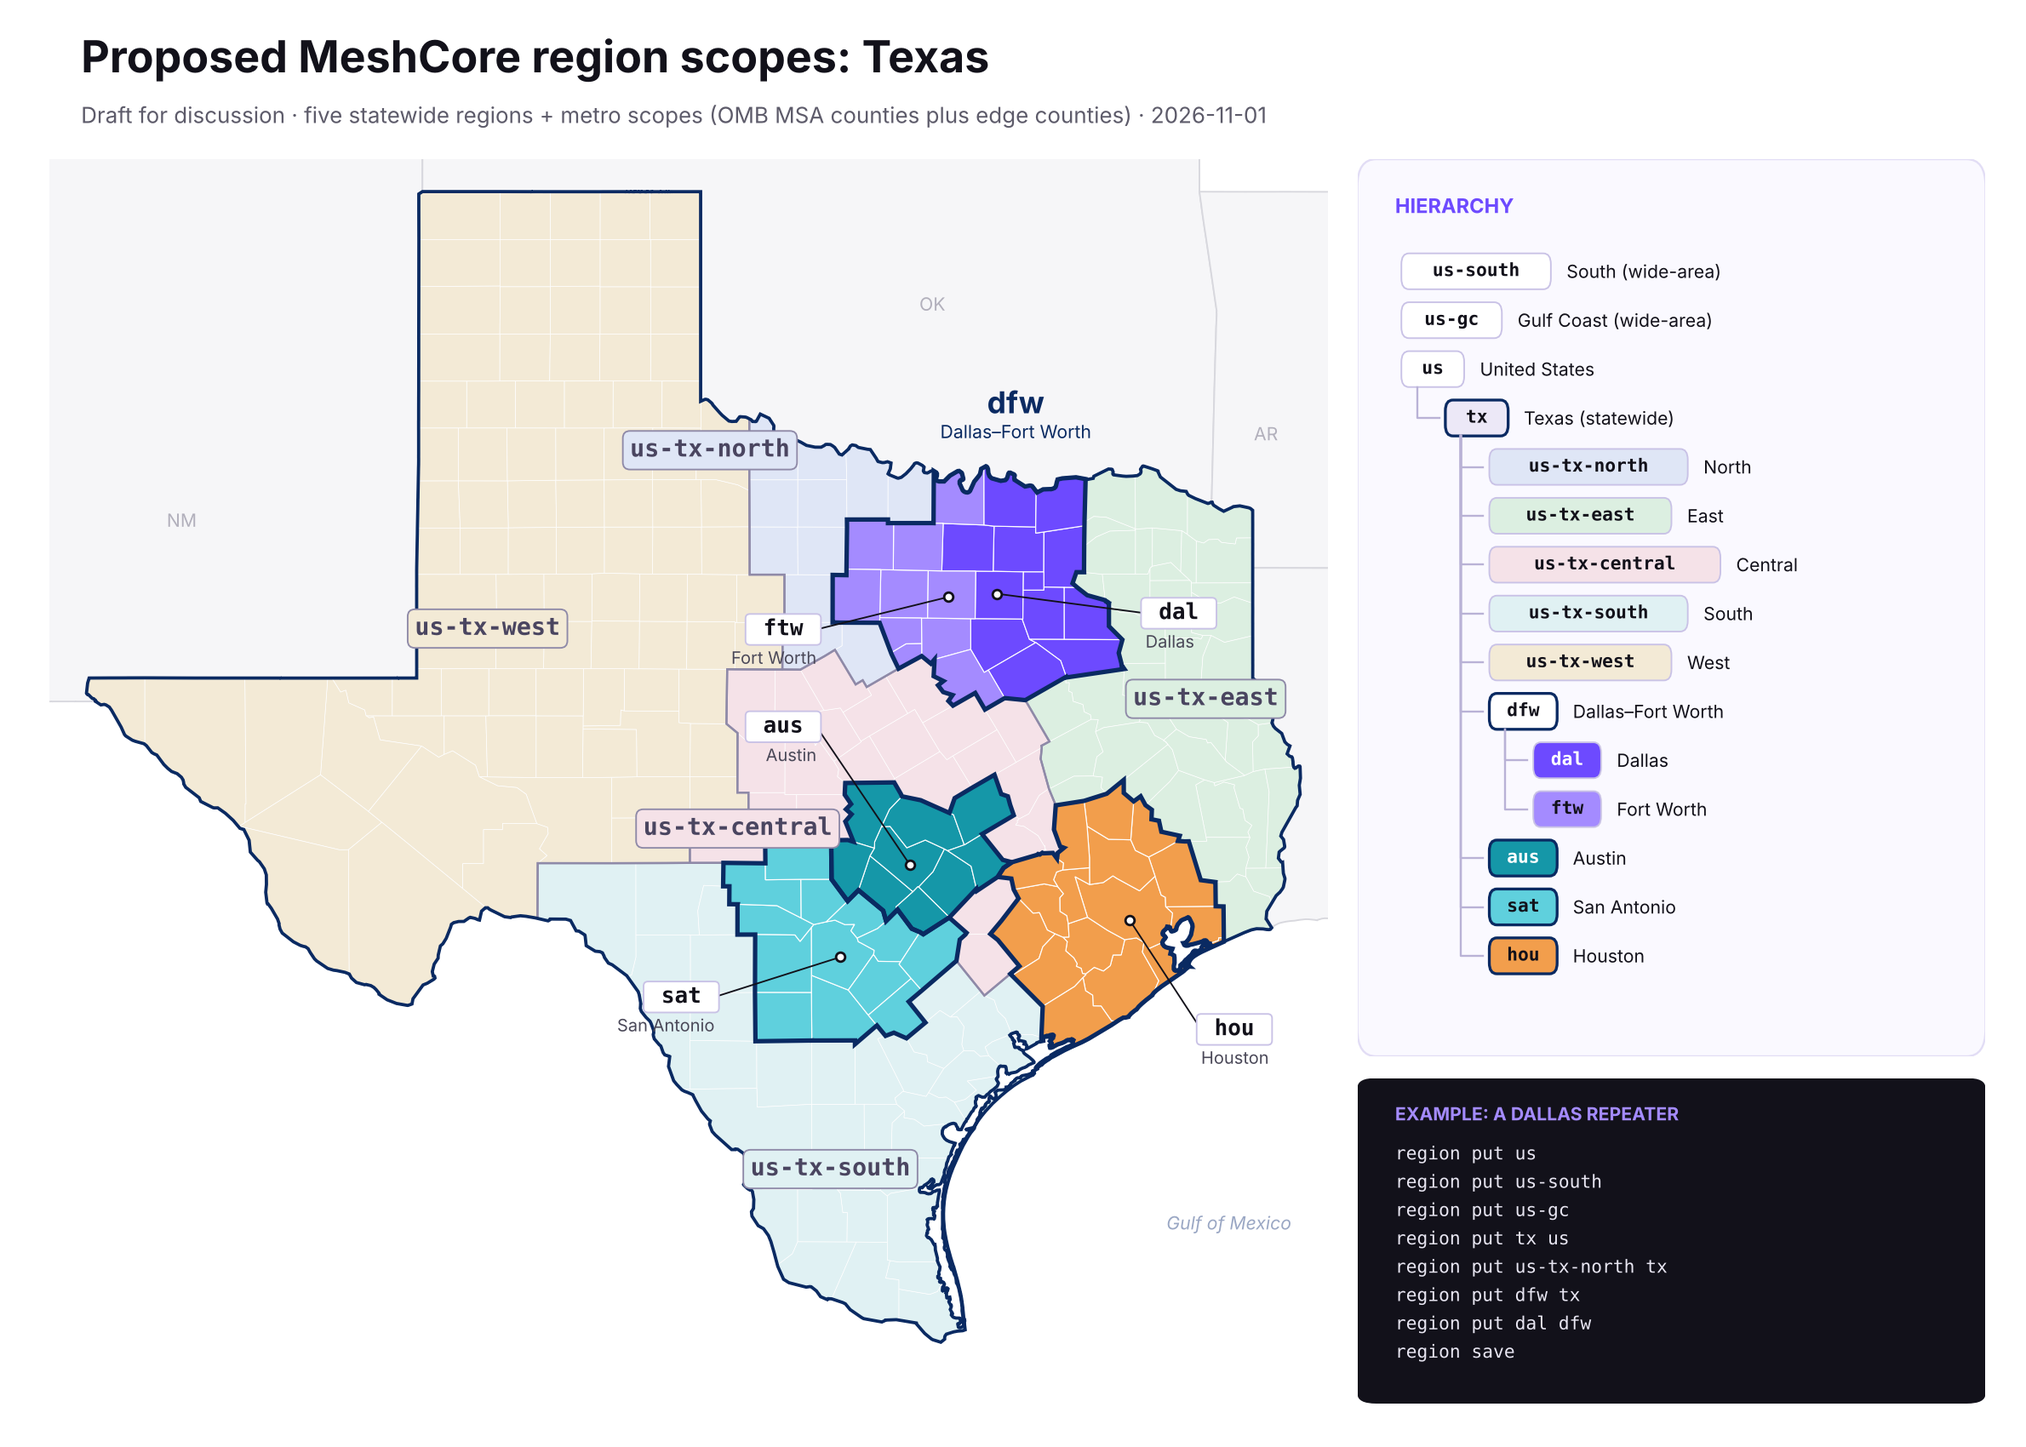
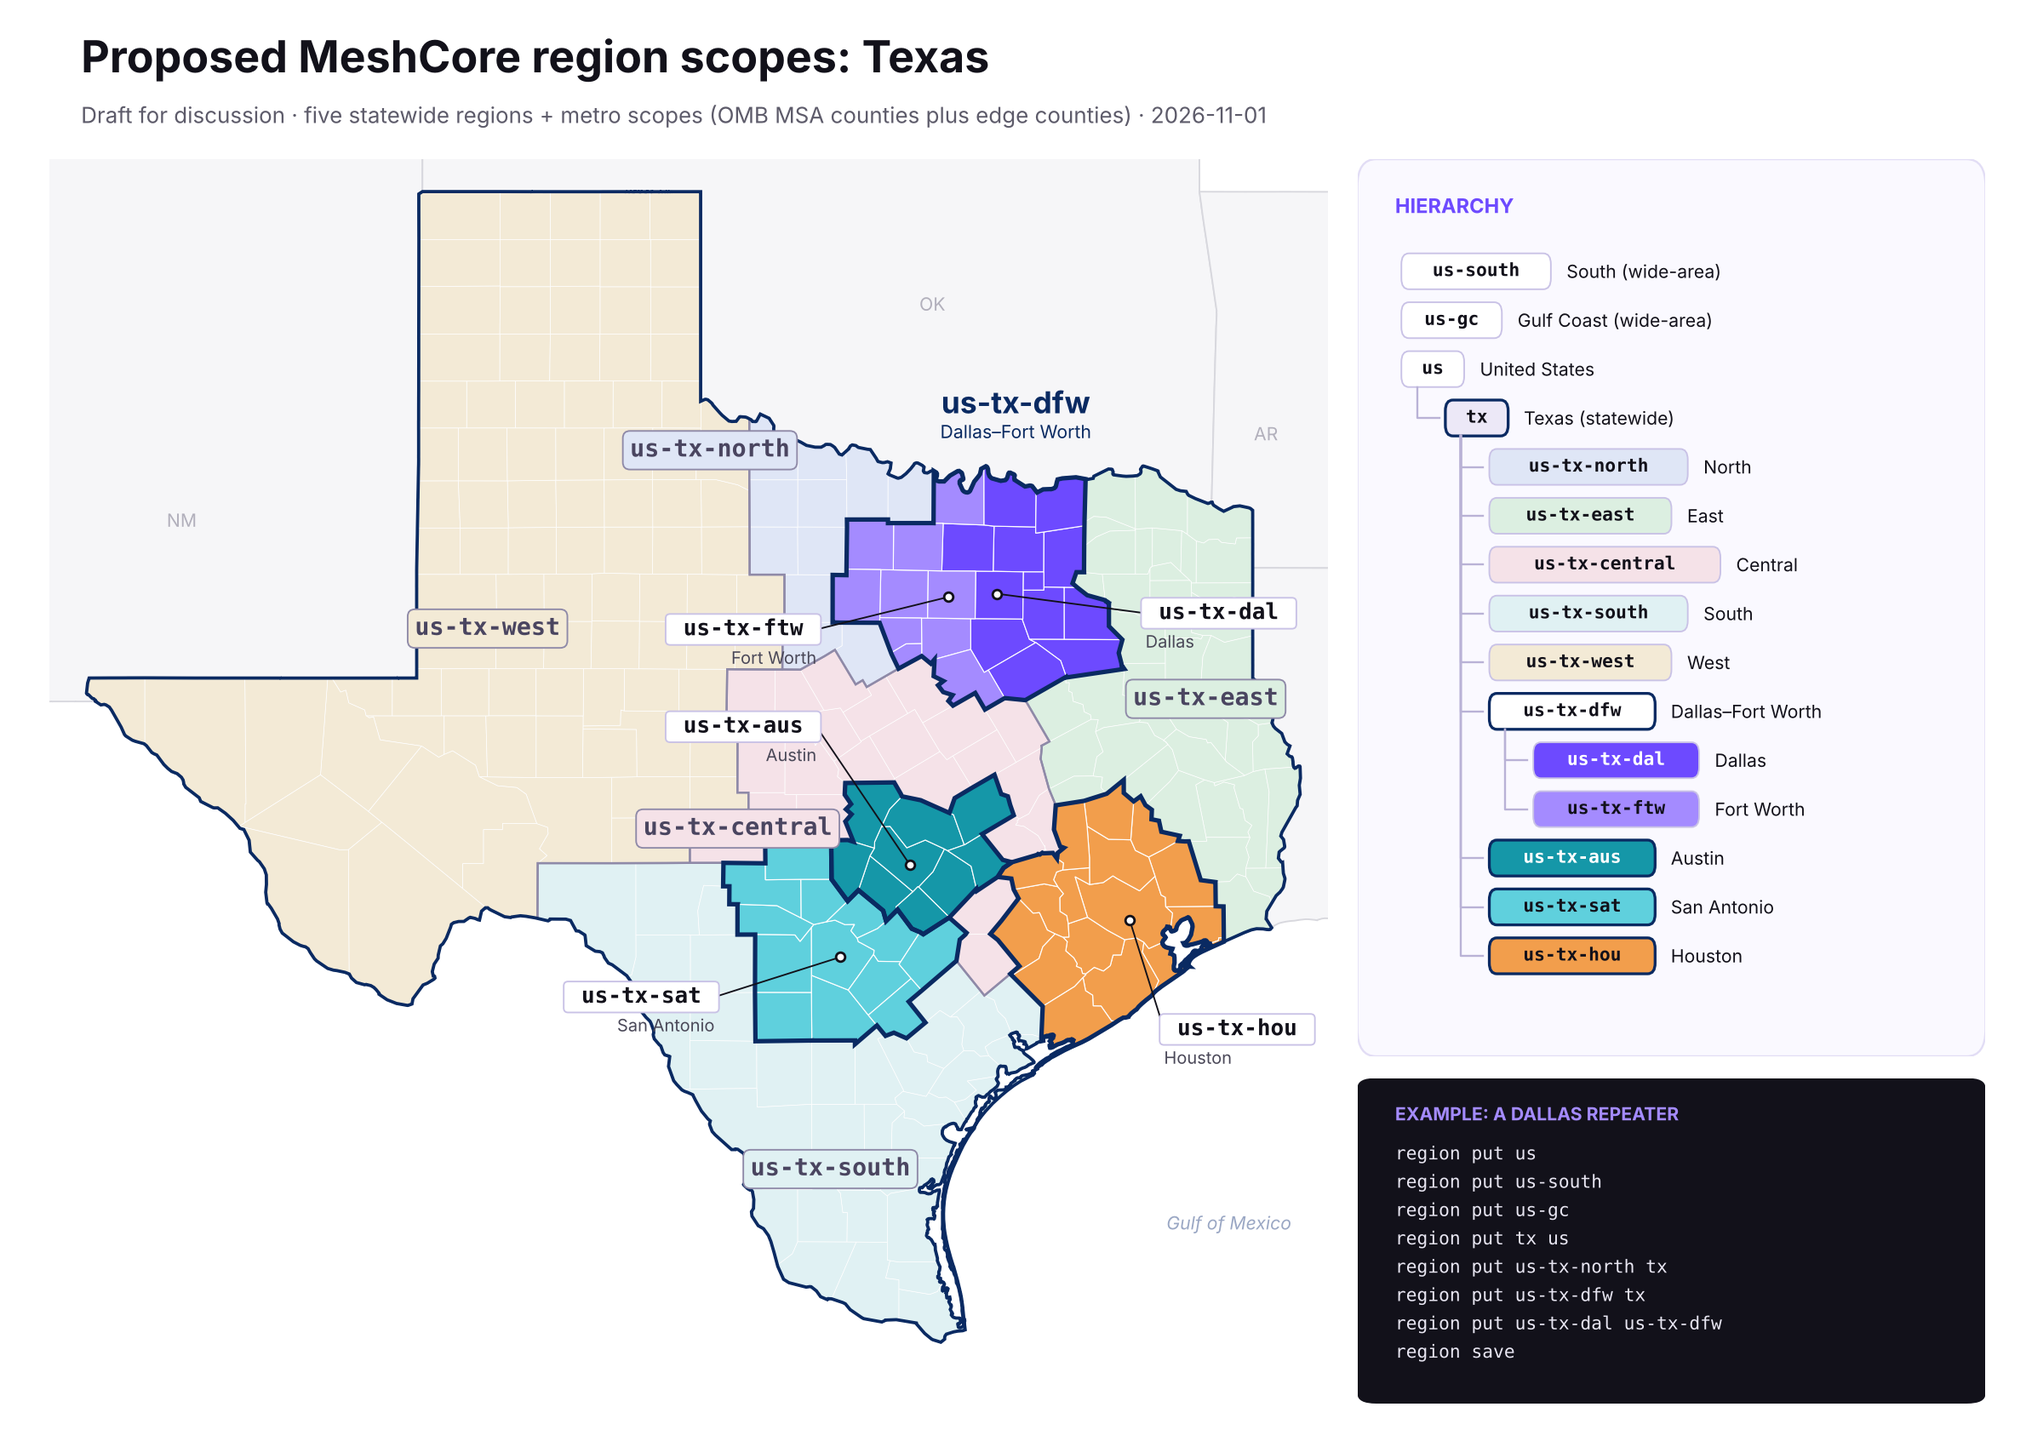
Rename metro and city scopes to us-tx-<code>
dfw, dal, ftw, aus, sat and hou become us-tx-dfw, us-tx-dal, us-tx-ftw,
us-tx-aus, us-tx-sat and us-tx-hou to match the us-tx-<region> names.

diff --git a/tools/render_map.py b/tools/render_map.py
@@ -61,12 +61,12 @@ def lab(lon, lat, tlon, tlat, txt, sub, ha):
     ax.text(tlon*K, tlat, f" {txt} ", ha=ha, va="center", fontsize=11, fontweight="bold", color=INK, zorder=6, family="monospace",
             bbox=dict(boxstyle="round,pad=0.2", fc="white", ec="#c9c2e6", lw=0.8))
     ax.text(tlon*K, tlat-0.26, sub, ha=ha, va="center", fontsize=8.5, color="#4a4858", zorder=6)
-lab(-96.80, 32.78, -95.2, 32.6, "dal", "Dallas", "left")
-lab(-97.33, 32.75, -98.75, 32.45, "ftw", "Fort Worth", "right")
-lab(-97.74, 30.27, -98.75, 31.55, "aus", "Austin", "right")
-lab(-98.49, 29.42, -99.85, 29.05, "sat", "San Antonio", "right")
-lab(-95.37, 29.76, -94.6, 28.75, "hou", "Houston", "left")
-ax.text(-96.6*K, 34.45, "dfw", ha="center", fontsize=15, fontweight="bold", color=NAVY, zorder=6)
+lab(-96.80, 32.78, -95.2, 32.6, "us-tx-dal", "Dallas", "left")
+lab(-97.33, 32.75, -98.75, 32.45, "us-tx-ftw", "Fort Worth", "right")
+lab(-97.74, 30.27, -98.75, 31.55, "us-tx-aus", "Austin", "right")
+lab(-98.49, 29.42, -99.85, 29.05, "us-tx-sat", "San Antonio", "right")
+lab(-95.37, 29.76, -95.0, 28.75, "us-tx-hou", "Houston", "left")
+ax.text(-96.6*K, 34.45, "us-tx-dfw", ha="center", fontsize=15, fontweight="bold", color=NAVY, zorder=6)
 ax.text(-96.6*K, 34.22, "Dallas–Fort Worth", ha="center", fontsize=9, color=NAVY, zorder=6)
 for r, lon, lat in [("west",-102.3,32.4),("north",-99.9,34.05),("east",-94.55,31.75),("central",-99.6,30.55),("south",-98.6,27.4)]:
     ax.text(lon*K, lat, f"us-tx-{r}", ha="center", fontsize=12, fontweight="bold", color="#4a4560", family="monospace", zorder=4,
@@ -86,8 +86,8 @@ px.add_patch(FancyBboxPatch((0.0,0.0),1,1, boxstyle="round,pad=0,rounding_size=0
 px.text(0.06, 0.94, "HIERARCHY", fontsize=10, color="#6d4aff", fontweight="bold")
 rows = [(0,"us-south","South (wide-area)","#ffffff"),(0,"us-gc","Gulf Coast (wide-area)","#ffffff"),(0,"us","United States","#ffffff"),(1,"tx","Texas (statewide)",C["tx"]),
         (2,"us-tx-north","North",C["north"]),(2,"us-tx-east","East",C["east"]),(2,"us-tx-central","Central",C["central"]),(2,"us-tx-south","South",C["south"]),(2,"us-tx-west","West",C["west"]),
-        (2,"dfw","Dallas–Fort Worth","#ffffff"),(3,"dal","Dallas",C["dal"]),(3,"ftw","Fort Worth",C["ftw"]),
-        (2,"aus","Austin",C["aus"]),(2,"sat","San Antonio",C["sat"]),(2,"hou","Houston",C["hou"])]
+        (2,"us-tx-dfw","Dallas–Fort Worth","#ffffff"),(3,"us-tx-dal","Dallas",C["dal"]),(3,"us-tx-ftw","Fort Worth",C["ftw"]),
+        (2,"us-tx-aus","Austin",C["aus"]),(2,"us-tx-sat","San Antonio",C["sat"]),(2,"us-tx-hou","Houston",C["hou"])]
 y = 0.875; prev = {}
 for lvl, code, name, col in rows:
     x = 0.07 + lvl*0.07
@@ -95,9 +95,9 @@ for lvl, code, name, col in rows:
         px.plot([x-0.045, x-0.045, x-0.01], [prev[lvl-1]-0.02, y, y], color="#b9b2d6", lw=1)
     w = max(0.10, 0.026*len(code)+0.03)
     px.add_patch(FancyBboxPatch((x, y-0.02), w, 0.04, boxstyle="round,pad=0,rounding_size=0.012",
-                 fc=col, ec=NAVY if code in ("tx","dfw","aus","sat","hou") else "#c9c2e6", lw=1.4 if code in ("tx","dfw","aus","sat","hou") else 0.8))
+                 fc=col, ec=NAVY if code in ("tx","us-tx-dfw","us-tx-aus","us-tx-sat","us-tx-hou") else "#c9c2e6", lw=1.4 if code in ("tx","us-tx-dfw","us-tx-aus","us-tx-sat","us-tx-hou") else 0.8))
     px.text(x+w/2, y, code, ha="center", va="center", fontsize=9, fontweight="bold",
-            color="white" if code in ("dal","aus") else INK, family="monospace")
+            color="white" if code in ("us-tx-dal","us-tx-aus") else INK, family="monospace")
     px.text(x+w+0.025, y, name, va="center", fontsize=9, color=INK)
     prev[lvl] = y; y -= 0.0545
 
@@ -105,7 +105,7 @@ for lvl, code, name, col in rows:
 cx = fig.add_axes([0.67, 0.03, 0.31, 0.225]); cx.axis("off"); cx.set_xlim(0,1); cx.set_ylim(0,1)
 cx.add_patch(FancyBboxPatch((0,0),1,1, boxstyle="round,pad=0,rounding_size=0.03", fc="#12111a", ec="none"))
 cx.text(0.06, 0.87, "EXAMPLE: A DALLAS REPEATER", fontsize=9, color="#a48bff", fontweight="bold")
-cfg = ["region put us","region put us-south","region put us-gc","region put tx us","region put us-tx-north tx","region put dfw tx","region put dal dfw","region save"]
+cfg = ["region put us","region put us-south","region put us-gc","region put tx us","region put us-tx-north tx","region put us-tx-dfw tx","region put us-tx-dal us-tx-dfw","region save"]
 for i, l in enumerate(cfg):
     cx.text(0.06, 0.75 - i*0.087, l, fontsize=9, color="#e8e6f2", family="monospace")
 fig.savefig(sys.argv[2], facecolor="white")

diff --git a/README.md b/README.md
@@ -19,33 +19,33 @@ _Draft for discussion · updated 2026-11-01 · adapted and simplified from the P
 | `us-tx-central` | Central | `tx` | I-35 corridor from Waco through Austin to San Antonio, Hill Country and Brazos Valley (47 counties) |
 | `us-tx-south` | South | `tx` | Coastal Bend, the border and the Rio Grande Valley (35 counties) |
 | `us-tx-west` | West | `tx` | Panhandle, South Plains, Permian Basin, Big Bend and Big Country, Amarillo to El Paso (90 counties) |
-| `dfw` | Dallas–Fort Worth | `tx` | DFW metro plus edge counties (22 counties) |
-| `dal` | Dallas | `dfw` | Collin, Dallas, Denton, Ellis, Hunt, Kaufman, Rockwall · edge: Fannin, Grayson, Henderson, Navarro, Van Zandt |
-| `ftw` | Fort Worth | `dfw` | Johnson, Parker, Tarrant, Wise · edge: Cooke, Hill, Hood, Jack, Palo Pinto, Somervell |
-| `aus` | Austin | `tx` | Bastrop, Caldwell, Hays, Travis, Williamson · edge: Blanco, Burnet, Lee, Milam |
-| `sat` | San Antonio | `tx` | Atascosa, Bandera, Bexar, Comal, Guadalupe, Kendall, Medina, Wilson · edge: Frio, Gillespie, Gonzales, Karnes, Kerr |
-| `hou` | Houston | `tx` | Austin, Brazoria, Chambers, Fort Bend, Galveston, Harris, Liberty, Montgomery, San Jacinto, Waller · edge: Colorado, Grimes, Matagorda, Walker, Washington, Wharton |
+| `us-tx-dfw` | Dallas–Fort Worth | `tx` | DFW metro plus edge counties (22 counties) |
+| `us-tx-dal` | Dallas | `us-tx-dfw` | Collin, Dallas, Denton, Ellis, Hunt, Kaufman, Rockwall · edge: Fannin, Grayson, Henderson, Navarro, Van Zandt |
+| `us-tx-ftw` | Fort Worth | `us-tx-dfw` | Johnson, Parker, Tarrant, Wise · edge: Cooke, Hill, Hood, Jack, Palo Pinto, Somervell |
+| `us-tx-aus` | Austin | `tx` | Bastrop, Caldwell, Hays, Travis, Williamson · edge: Blanco, Burnet, Lee, Milam |
+| `us-tx-sat` | San Antonio | `tx` | Atascosa, Bandera, Bexar, Comal, Guadalupe, Kendall, Medina, Wilson · edge: Frio, Gillespie, Gonzales, Karnes, Kerr |
+| `us-tx-hou` | Houston | `tx` | Austin, Brazoria, Chambers, Fort Bend, Galveston, Harris, Liberty, Montgomery, San Jacinto, Waller · edge: Colorado, Grimes, Matagorda, Walker, Washington, Wharton |
 
 Each metro starts from its OMB Metropolitan Statistical Area counties (Dallas and Fort Worth use the two MSA divisions) and adds the outlying counties along its edge, so repeaters on the fringe join the metro instead of falling back to `tx`. The edge counties are a first pass and easy to adjust. El Paso, the Valley and other areas without a metro scope use their region scope until a local community asks for a metro scope.
 
-The five regions come from the "Texas in Five" proposal. Every county belongs to exactly one region, and metro areas are never split between regions. Metro scopes are separate from regions, so a few metro edge counties fall in a neighboring region: Van Zandt and Henderson (`dal`) are in East, Navarro (`dal`) and Hill (`ftw`) are in Central, Frio and Karnes (`sat`) are in South, and Grimes, Washington and Colorado (`hou`) are in Central. A repeater in one of those counties carries its own region plus the metro scope.
+The five regions come from the "Texas in Five" proposal. Every county belongs to exactly one region, and metro areas are never split between regions. Metro scopes are separate from regions, so a few metro edge counties fall in a neighboring region: Van Zandt and Henderson (`us-tx-dal`) are in East, Navarro (`us-tx-dal`) and Hill (`us-tx-ftw`) are in Central, Frio and Karnes (`us-tx-sat`) are in South, and Grimes, Washington and Colorado (`us-tx-hou`) are in Central. A repeater in one of those counties carries its own region plus the metro scope.
 
 ## What can sit under `tx`
 
 Every scope under `tx` has to be one of these four kinds:
 
 1. **One of the five statewide regions.** These are `us-tx-north`, `us-tx-east`, `us-tx-central`, `us-tx-south` and `us-tx-west`, and together they cover every county.
-2. **A major metro area.** This is a metro scope named for the whole area, such as `dfw` for Dallas–Fort Worth.
-3. **A grouping of IATA codes.** This joins neighboring airport-code areas under one scope, such as a future Rio Grande Valley scope grouping `hrl`, `mfe` and `bro`.
-4. **A single IATA code.** This is one city or area named by its airport code, such as `hou`, `dal`, `ftw`, `aus` or `sat`.
+2. **A major metro area.** This is a metro scope named for the whole area, such as `us-tx-dfw` for Dallas–Fort Worth.
+3. **A grouping of IATA codes.** This joins neighboring airport-code areas under one scope, such as a future `us-tx-rgv` grouping the `hrl`, `mfe` and `bro` areas.
+4. **A single IATA code.** This is one city or area named by its airport code, such as `us-tx-hou`, `us-tx-dal`, `us-tx-ftw`, `us-tx-aus` or `us-tx-sat`.
 
-Areas that don't fit one of these stay in `tx` until they do. Future scopes follow the same rule, for example `elp` (El Paso), `crp` (Corpus Christi) or a grouping for the Rio Grande Valley built from `hrl`, `mfe` and `bro`.
+Areas that don't fit one of these stay in `tx` until they do. Future scopes follow the same rule, for example `us-tx-elp` (El Paso), `us-tx-crp` (Corpus Christi) or `us-tx-rgv` for the Rio Grande Valley.
 
 ## What we kept from the PNW document
 
-- **Short, flat, lowercase names.** Use only a–z, 0–9 and `-`, with three letters or fewer where possible. Under `tx`, names follow the rule above; the five regions use the longer `us-tx-<region>` form from the Texas in Five proposal. Above `tx`, names match the ones neighboring meshes already use (`us-south`, `us-gc`). A name is just `dal`, not `us-tx-dfw-dal`; the hierarchy comes from the parent field. Names have to be unique across the mesh.
-- **Every repeater carries its full ancestry.** Firmware matches traffic on each region's own key and never looks at the parent. A repeater with only `dal` won't forward `dfw` or `tx` traffic, so each level needs its own `region put`.
-- **Scope to your audience.** Use the smallest scope that reaches the people you're talking to. Local chat goes on `dal`/`ftw`/`aus`/`sat`/`hou`, metro-wide traffic on `dfw`, regional traffic on a `us-tx-<region>` scope, and statewide traffic on `tx`. Bots should flood on a scope, never unscoped.
+- **Short, flat, lowercase names.** Use only a–z, 0–9 and `-`, and keep them short. Every scope under `tx` is named `us-tx-<code>`, where the code is a region name (`north`), a metro or grouping code (`dfw`) or an IATA code (`hou`). This matches the `us-south`/`us-gc` style and keeps names unique across meshes in other states. Above `tx`, names match the ones neighboring meshes already use (`us-south`, `us-gc`). A name is `us-tx-dal`, not `us-tx-dfw-dal`; the hierarchy comes from the parent field, not the name. Names have to be unique across the mesh.
+- **Every repeater carries its full ancestry.** Firmware matches traffic on each region's own key and never looks at the parent. A repeater with only `us-tx-dal` won't forward `us-tx-dfw` or `tx` traffic, so each level needs its own `region put`.
+- **Scope to your audience.** Use the smallest scope that reaches the people you're talking to. Local chat goes on `us-tx-dal`/`us-tx-ftw`/`us-tx-aus`/`us-tx-sat`/`us-tx-hou`, metro-wide traffic on `us-tx-dfw`, regional traffic on a `us-tx-<region>` scope, and statewide traffic on `tx`. Bots should flood on a scope, never unscoped.
 - **No airtime cost.** Region names never go over the air. Packets carry only small transport codes derived from the region name.
 
 ## Example repeater configs
@@ -58,8 +58,8 @@ region put us-south
 region put us-gc
 region put tx us
 region put us-tx-north tx
-region put dfw tx
-region put dal dfw
+region put us-tx-dfw tx
+region put us-tx-dal us-tx-dfw
 region save
 ```
 
@@ -71,11 +71,11 @@ region put us-south
 region put us-gc
 region put tx us
 region put us-tx-central tx
-region put sat tx
+region put us-tx-sat tx
 region save
 ```
 
-Every Texas repeater carries `us`, `us-south`, `us-gc` and `tx`, so wide-area traffic on the broad scopes reaches the whole state. Every Texas repeater also carries the one region its county is in. A rural repeater outside any metro stops after its region, for example `region put us-tx-west tx`. A Houston repeater ends with `region put us-tx-east tx` and `region put hou tx`. On firmware 1.14.x and earlier, add `region allowf <name>` after each `put`.
+Every Texas repeater carries `us`, `us-south`, `us-gc` and `tx`, so wide-area traffic on the broad scopes reaches the whole state. Every Texas repeater also carries the one region its county is in. A rural repeater outside any metro stops after its region, for example `region put us-tx-west tx`. A Houston repeater ends with `region put us-tx-east tx` and `region put us-tx-hou tx`. On firmware 1.14.x and earlier, add `region allowf <name>` after each `put`.
 
 **Keep unscoped traffic for now.** Unscoped traffic uses the reserved root region `*`, and repeaters allow flood on it by default. Do not remove or deny flood on `*` on any repeater yet. Many nodes run older firmware or haven't set a region scope, and they still depend on unscoped flood. We'll decide on a later date for removing `*` once region scopes are widely adopted.
 
@@ -90,17 +90,17 @@ This lets each channel match its audience:
 | Channel | Suggested scope | Why |
 |---|---|---|
 | Public | `tx` or unscoped (`*`) | General chat that anyone in the state should be able to see |
-| `#weather` | Local metro or city, e.g. `dfw` or `aus` | Alerts for Houston aren't useful in Dallas |
-| `#bot` | Local metro or city, e.g. `hou` or `sat` | Bot replies and automated posts stay near the people using them |
+| `#weather` | Local metro or city, e.g. `us-tx-dfw` or `us-tx-aus` | Alerts for Houston aren't useful in Dallas |
+| `#bot` | Local metro or city, e.g. `us-tx-hou` or `us-tx-sat` | Bot replies and automated posts stay near the people using them |
 
-A Fort Worth user might keep Public on `tx`, set `#weather` to `dfw` and set `#bot` to `ftw`. They still see statewide chat, but they won't get weather updates or bot output from Austin or Houston.
+A Fort Worth user might keep Public on `tx`, set `#weather` to `us-tx-dfw` and set `#bot` to `us-tx-ftw`. They still see statewide chat, but they won't get weather updates or bot output from Austin or Houston.
 
 **Not every area needs its own scope.** Most conversation can stay in a local metro scope or in `tx`. An area only needs its own scope once it starts seeing excessive unwanted traffic from elsewhere. Until then, it's simpler to stay in `tx` and add a scope later if it's needed.
 
 ## Open questions
 
 1. **Aligning with neighbors on `us-south` and `us-gc`.** Both are broad, high-level scopes for wide-area communication, not local traffic, and are already in use by mesh groups in neighboring states. Every Texas repeater carries both. We should confirm with those groups that the names and intended use match.
-2. **Uppercase vs lowercase.** The original ask used DFW. The convention is lowercase, so this draft uses `dfw`.
+2. **Uppercase vs lowercase.** The original ask used DFW. The convention is lowercase, so this draft uses `us-tx-dfw`.
 3. **Edge counties.** Are the right outlying counties included? Bell (Killeen–Temple) and Jefferson (Beaumont) have no metro scope yet and use their region (Central and East).
-4. **Next metros.** Likely candidates for the next scopes are El Paso (`elp`), the Rio Grande Valley and Corpus Christi. Should `hou` get sub-regions?
+4. **Next metros.** Likely candidates for the next scopes are El Paso (`us-tx-elp`), the Rio Grande Valley and Corpus Christi. Should `us-tx-hou` get sub-regions?
 5. **Ratification.** Who signs off on new scopes, so names stay unique and agreed?
